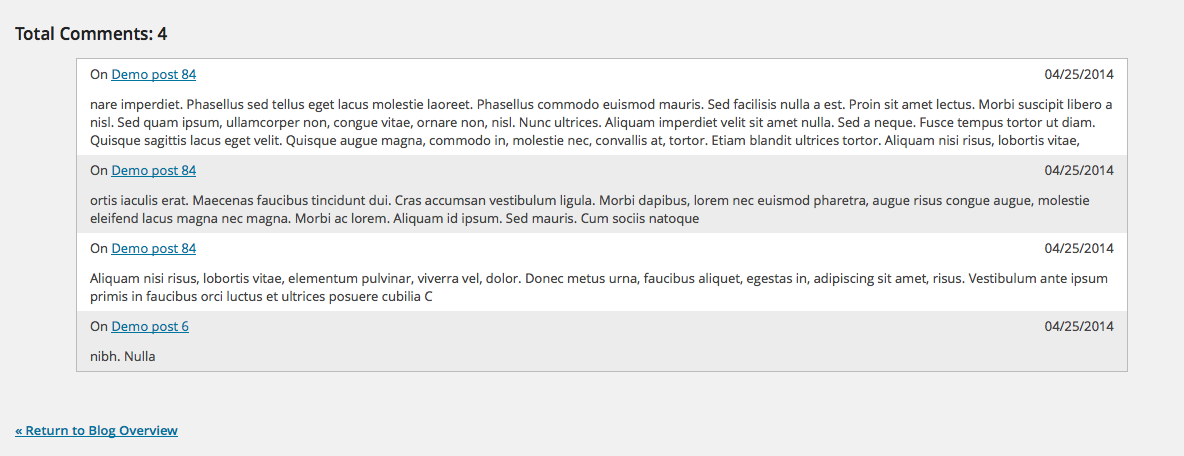
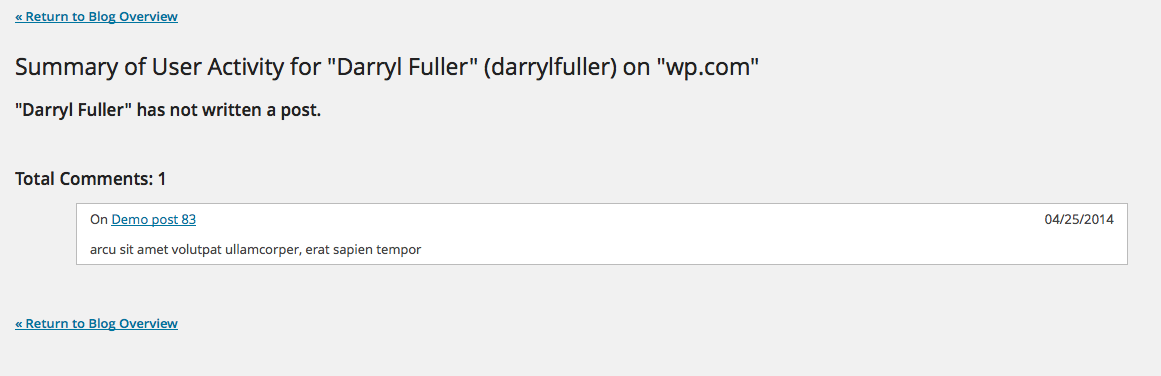
changed screenshots, updated readme, added headers to tables

diff --git a/admin.css b/admin.css
@@ -8,6 +8,14 @@
    border: 1px solid #bbb;
    border-collapse: collapse;
 }
+.reckoning-table tbody tr th {
+  text-align: left;
+  padding: .5em 1em;
+  border-bottom: 1px solid #bbb;
+}
+.reckoning-table tbody tr th h3 {
+  margin: 0;
+}
 .reckoning-table tbody tr td {
    padding: .5em 1em;
    line-height: 1.4;
@@ -29,10 +37,10 @@
 }
 
 .reckoning-table-all tbody tr:nth-child(even) {
-    background-color: #ececec;  
+    background-color: #ececec;
 }
 .reckoning-table-all tbody tr:nth-child(odd) {
-    background-color: #fff;  
+    background-color: #fff;
 }
 .reckoning-table-all tbody tr:last-child {
    border-top: 1px solid black;

diff --git a/reckoning.php b/reckoning.php
@@ -34,7 +34,7 @@
  *  but WITHOUT ANY WARRANTY; without even the implied warranty of
  *  MERCHANTABILITY or FITNESS FOR A PARTICULAR PURPOSE.  See the
  *  GNU General Public License for more details.
- * 
+ *
  *  You should have received a copy of the GNU General Public License
  *  along with this program; if not, write to the Free Software
  *  Foundation, Inc., 51 Franklin St, Fifth Floor, Boston, MA  02110-1301  USA
@@ -134,6 +134,7 @@ function display_reckoning_admin_page_individual( $user ) {
 	else {
 		echo '<h3>' . __( 'Total Posts', 'reckoning' ) . ': ' . count( $posts ) . '</h3>';
 		echo "<table class = 'reckoning-table'>";
+    echo "<tr><th colspan='2'>User Posts</th></tr>";
 		foreach ( $posts as $post ) :
 			echo '<tr>';
 			preg_match( "/([0-9]{4})-([0-9]{2})-([0-9]{2})/", $post->post_date, $matches );
@@ -154,6 +155,7 @@ function display_reckoning_admin_page_individual( $user ) {
 	} else {
 		echo '<h3>' . __( 'Total Comments', 'reckoning' ) . ': ' . count( $comments ) . '</h3>';
 		echo "<table class = 'reckoning-table'>";
+    echo "<tr><th colspan='2'>User Comments</th></tr>";
 		foreach (  $comments as $comment ) :
 			$post = get_post( $comment->comment_post_ID );
 			preg_match( "/([0-9]{4})-([0-9]{2})-([0-9]{2})/", $comment->comment_date, $matches );
@@ -215,6 +217,7 @@ function display_reckoning_admin_page_all() {
 			echo '<h4>"' . ucwords( $user->display_name ) . '" ' . __( 'has not written a post', 'reckoning' ) . '.</h4>';
 		} else {
 			echo "<table class = 'reckoning-table reckoning-table-all'>";
+      echo "<tr><th colspan='2'><h3>User Posts</h3></th></tr>";
 			foreach ( $posts as $post ) :
 				preg_match( "/([0-9]{4})-([0-9]{2})-([0-9]{2})/", $post->post_date, $matches );
 				$date = "$matches[2]/$matches[3]/$matches[1]";
@@ -230,12 +233,13 @@ function display_reckoning_admin_page_all() {
 			echo '<h4>"' . ucwords( $user->display_name ) . '" ' . __( 'has not posted a comment', 'reckoning' ) . '.</h4>';
 		} else {
 			echo "<table class = 'reckoning-table reckoning-table-all'>";
+      echo "<tr><th colspan='2'><h3>User Comments</h3></th></tr>";
 			foreach ( $comments as $comment ) :
 				$post = get_post( $comment->comment_post_ID );
 				preg_match( "/([0-9]{4})-([0-9]{2})-([0-9]{2})/", $comment->comment_date, $matches );
 				$date = "$matches[2]/$matches[3]/$matches[1]";
-				
-				echo '<tr>';			
+
+				echo '<tr>';
 				echo "<td>On <a href='" . $post->guid . "#comment-" . $comment->comment_ID . "'>$post->post_title</a></td>";
 				echo "<td>$date</td>";
 				echo '</tr>';

diff --git a/assets/index.php b/assets/index.php
@@ -1,1 +1,1 @@
-<?php
+<?php // silence

diff --git a/index.php b/index.php
@@ -1,1 +1,1 @@
-<?php
+<?php // silence

diff --git a/languages/index.php b/languages/index.php
@@ -1,1 +1,1 @@
-<?php
+<?php // silence
